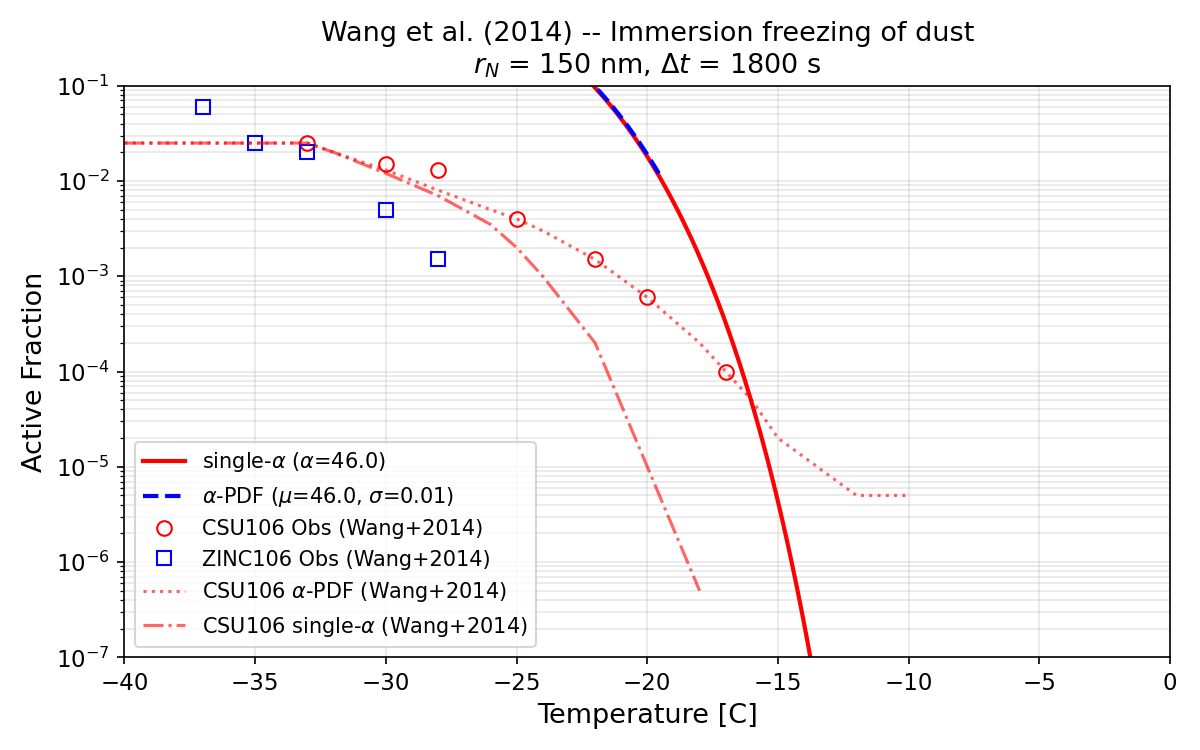
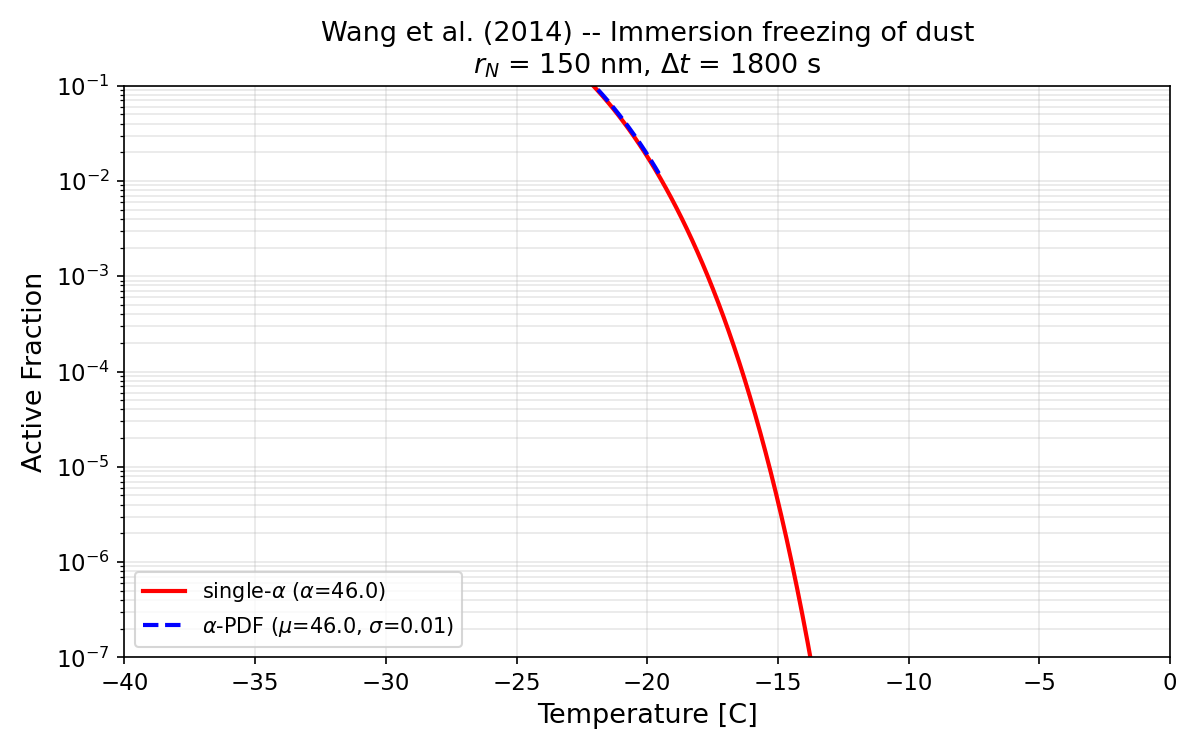
🗑 remove: drop invented digitized data and update boxmodel plot
Removed digitize_wang_fig1.py and fig_1_wang_ff_vs_t.csv (manually
invented values). Updated boxmodel_Jimm_dust_a1.py to remove the
CSV loading and Wang data overlay from the plot.

diff --git a/boxmodel_Jimm_dust_a1.py b/boxmodel_Jimm_dust_a1.py
@@ -401,24 +401,6 @@ if __name__ == "__main__":
         print(f"  {tc_range[idx]:8.1f}  {ff_single[idx]:12.4e}  {ff_pdf[idx]:12.4e}")
     print("=" * 70)
 
-    # --- Load digitized Wang et al. (2014) Fig. 1 data ---
-    csv_path = Path(__file__).parent / "fig_1_wang_ff_vs_t.csv"
-    wang_data = {}
-    if csv_path.exists():
-        import csv
-
-        with open(csv_path) as f:
-            reader = csv.DictReader(f)
-            for col in reader.fieldnames:
-                wang_data[col] = []
-            for row in reader:
-                for col in reader.fieldnames:
-                    val = row[col].strip() if row[col] else ""
-                    wang_data[col].append(float(val) if val else np.nan)
-        for col in wang_data:
-            wang_data[col] = np.array(wang_data[col])
-        print(f"  Loaded {csv_path.name} with {len(wang_data['temperature_C'])} points")
-
     # --- Plot ---
     fig, ax = plt.subplots(figsize=(8, 5))
 
@@ -426,33 +408,8 @@ if __name__ == "__main__":
     ff_single_plot = np.where(ff_single > 0, ff_single, np.nan)
     ff_pdf_plot = np.where(ff_pdf > 0, ff_pdf, np.nan)
 
-    # Our model curves
     ax.semilogy(tc_range, ff_single_plot, "r-", linewidth=2, label=f"single-$\\alpha$ ($\\alpha$={ALPHA_SINGLE_DEG})")
     ax.semilogy(tc_range, ff_pdf_plot, "b--", linewidth=2, label=f"$\\alpha$-PDF ($\\mu$={MU_PDF_DEG}, $\\sigma$={SIGMA_PDF})")
-
-    # Wang et al. (2014) Fig. 1 digitized data
-    if wang_data:
-        tc_wang = wang_data["temperature_C"]
-
-        # CSU106 observations
-        mask = ~np.isnan(wang_data["CSU106_obs"])
-        if mask.any():
-            ax.semilogy(tc_wang[mask], wang_data["CSU106_obs"][mask], "ro", ms=7, mfc="none", label="CSU106 Obs (Wang+2014)")
-
-        # ZINC106 observations
-        mask = ~np.isnan(wang_data["ZINC106_obs"])
-        if mask.any():
-            ax.semilogy(tc_wang[mask], wang_data["ZINC106_obs"][mask], "bs", ms=7, mfc="none", label="ZINC106 Obs (Wang+2014)")
-
-        # CSU106 alpha-PDF (paper's fit)
-        mask = ~np.isnan(wang_data["CSU106_alpha_PDF"])
-        if mask.any():
-            ax.semilogy(tc_wang[mask], wang_data["CSU106_alpha_PDF"][mask], "r:", linewidth=1.5, alpha=0.6, label="CSU106 $\\alpha$-PDF (Wang+2014)")
-
-        # CSU106 single-alpha (paper's fit)
-        mask = ~np.isnan(wang_data["CSU106_single_alpha"])
-        if mask.any():
-            ax.semilogy(tc_wang[mask], wang_data["CSU106_single_alpha"][mask], "r-.", linewidth=1.5, alpha=0.6, label="CSU106 single-$\\alpha$ (Wang+2014)")
 
     ax.set_xlabel("Temperature [C]", fontsize=13)
     ax.set_ylabel("Active Fraction", fontsize=13)
